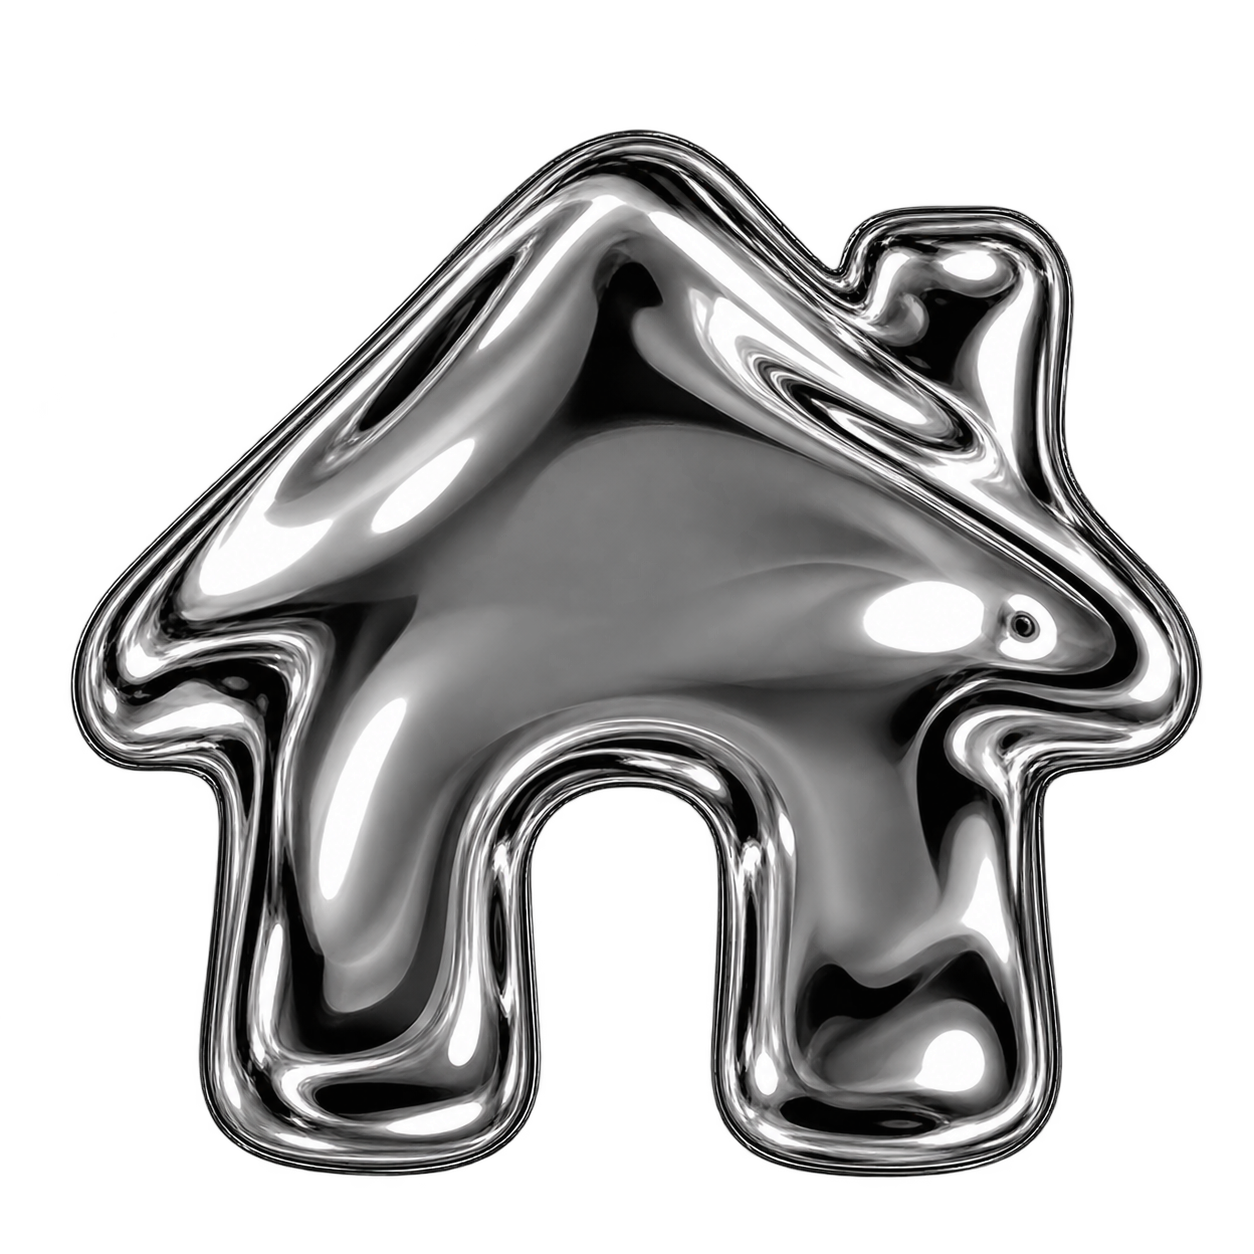
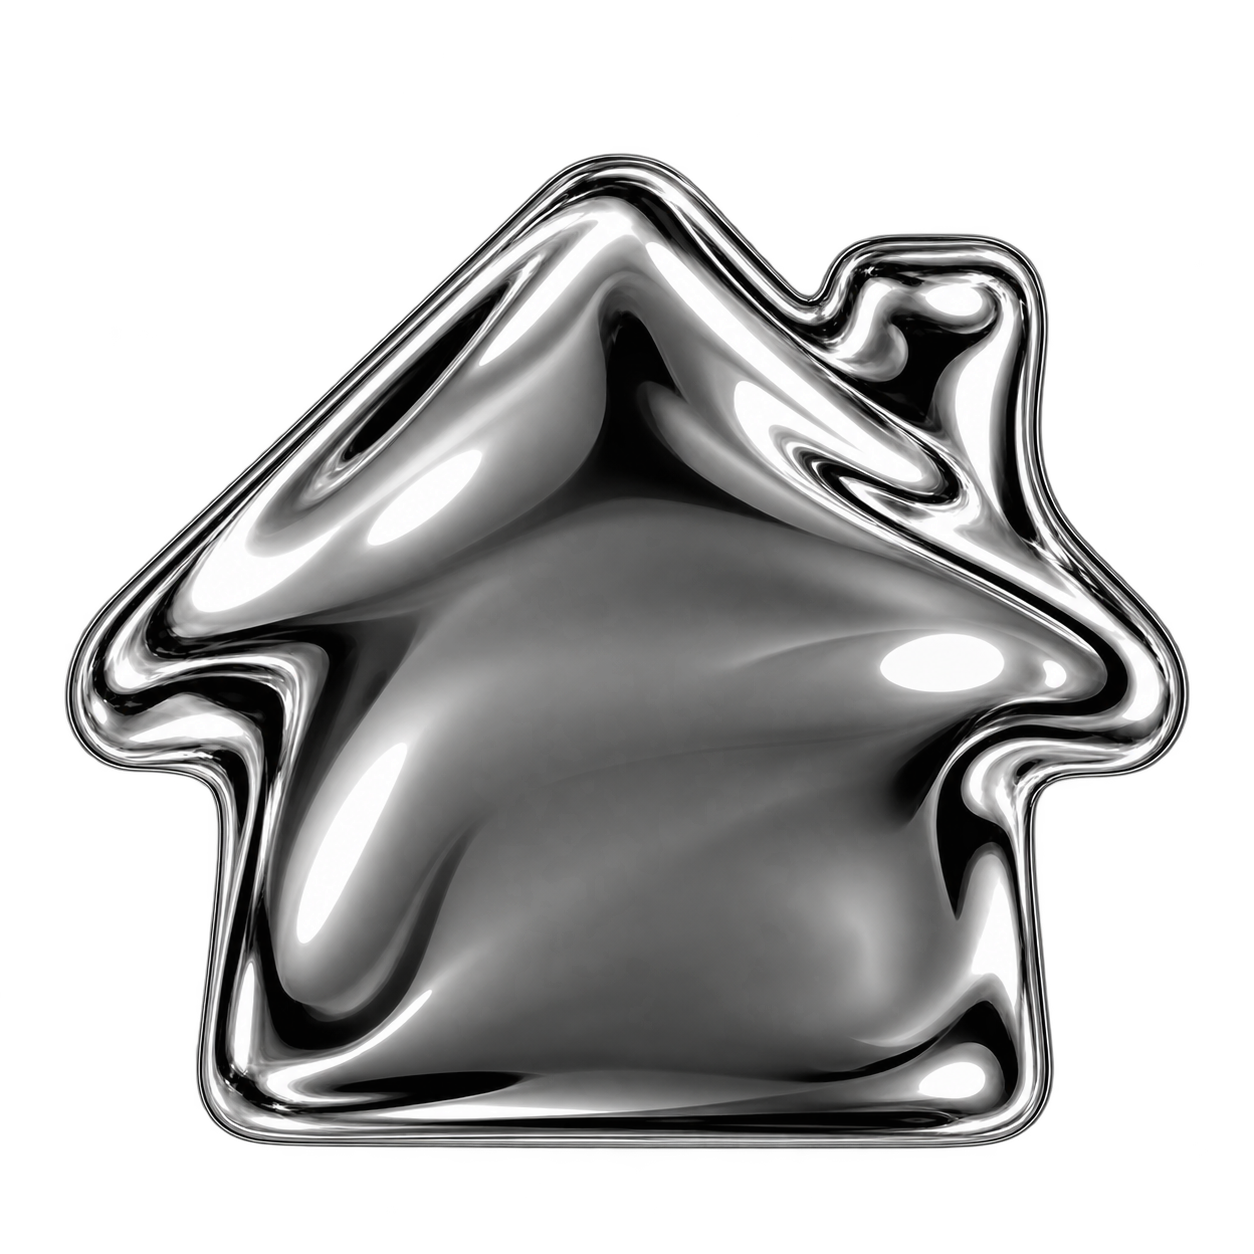
homelogochange

diff --git a/index.html b/index.html
@@ -29,7 +29,7 @@
   body {
     font-family: var(--font);
     background-color: #000000;
-    background-image: url('assets/background.png');
+    background-image: url('assets/background2.png');
     background-size: cover;
     background-position: center;
     background-repeat: no-repeat;
@@ -68,9 +68,14 @@
     top: 0;
     left: 0;
     width: 100%;
-    height: 105px;
-    background: #000;
+    height: 150px;
+    background: linear-gradient(
+      to bottom,
+      rgba(63, 54, 43, 0) 0%,
+      rgba(63, 54, 43, 0) 100%
+    );
     z-index: 10;
+    pointer-events: none;
   }
 
   .banner-wave {
@@ -84,9 +89,18 @@
 
   /* ---- Exact top ribbon styling ---- */
   .top-banner {
-    position: fixed; top: 0; left: 0; width: 100%; height: 150px;
-    background: linear-gradient(to bottom, #24140f 0%, #24140f 35%, rgba(36,20,15,.95) 50%, rgba(36,20,15,.65) 68%, rgba(36,20,15,.25) 85%, rgba(36,20,15,0) 100%);
-    z-index: 10; pointer-events: none;
+    position: fixed;
+    top: 0;
+    left: 0;
+    width: 100%;
+    height: 150px;
+    background: linear-gradient(
+      to bottom,
+      rgba(63, 54, 43, 0) 0%,
+      rgba(63, 54, 43, 0) 100%
+    );
+    z-index: 10;
+    pointer-events: none;
   }
 
   .site-title {
@@ -283,10 +297,6 @@
     That alone fixes most "laggy transition" issues.
   -->
 
-  <header>
-    <h1>jack gomes</h1>
-    <p>photos over the years, in no particular order</p>
-  </header>
 
   <div class="carousel" id="carousel">
 

diff --git a/about.html b/about.html
@@ -29,7 +29,7 @@
   body {
     min-height: 100vh;
     font-family: var(--font);
-    background: #000 url('assets/background.png') center/cover no-repeat fixed;
+    background: #000 url('assets/background2.png') center/cover no-repeat fixed;
     color: var(--text);
     line-height: 1.5;
     -webkit-font-smoothing: antialiased;
@@ -46,12 +46,8 @@
     height: 150px;
     background: linear-gradient(
       to bottom,
-      #24140f 0%,
-      #24140f 35%,
-      rgba(36,20,15,.95) 50%,
-      rgba(36,20,15,.65) 68%,
-      rgba(36,20,15,.25) 85%,
-      rgba(36,20,15,0) 100%
+      rgba(63, 54, 43, 0) 0%,
+      rgba(63, 54, 43, 0) 100%
     );
     z-index: 10;
     pointer-events: none;
